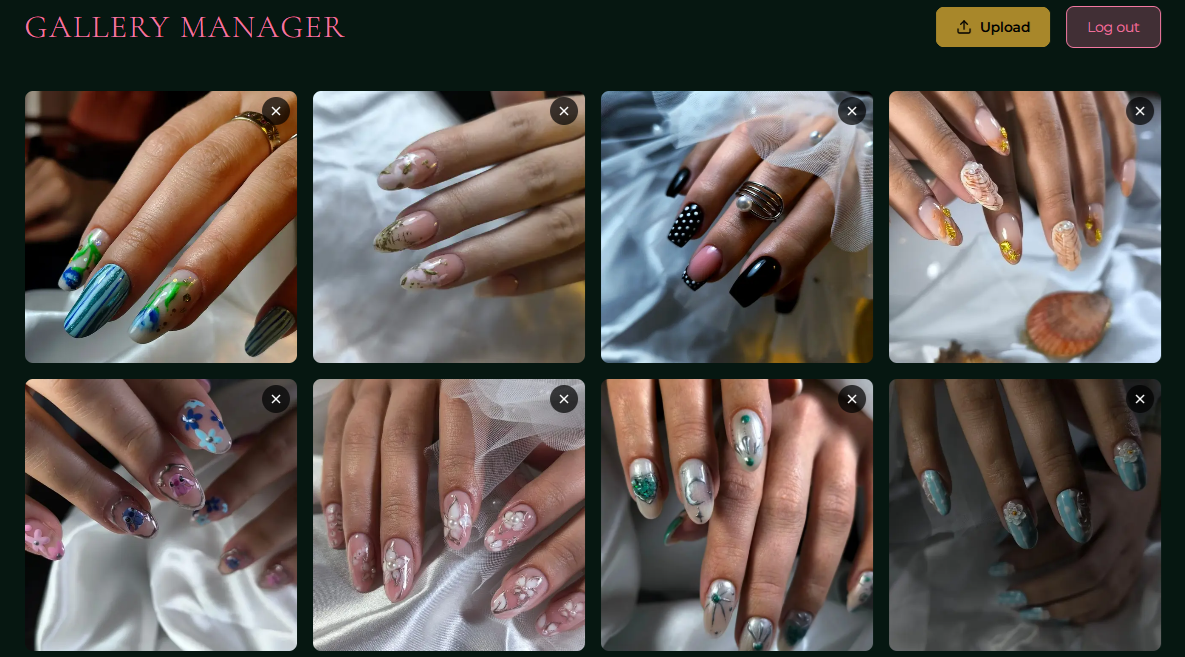
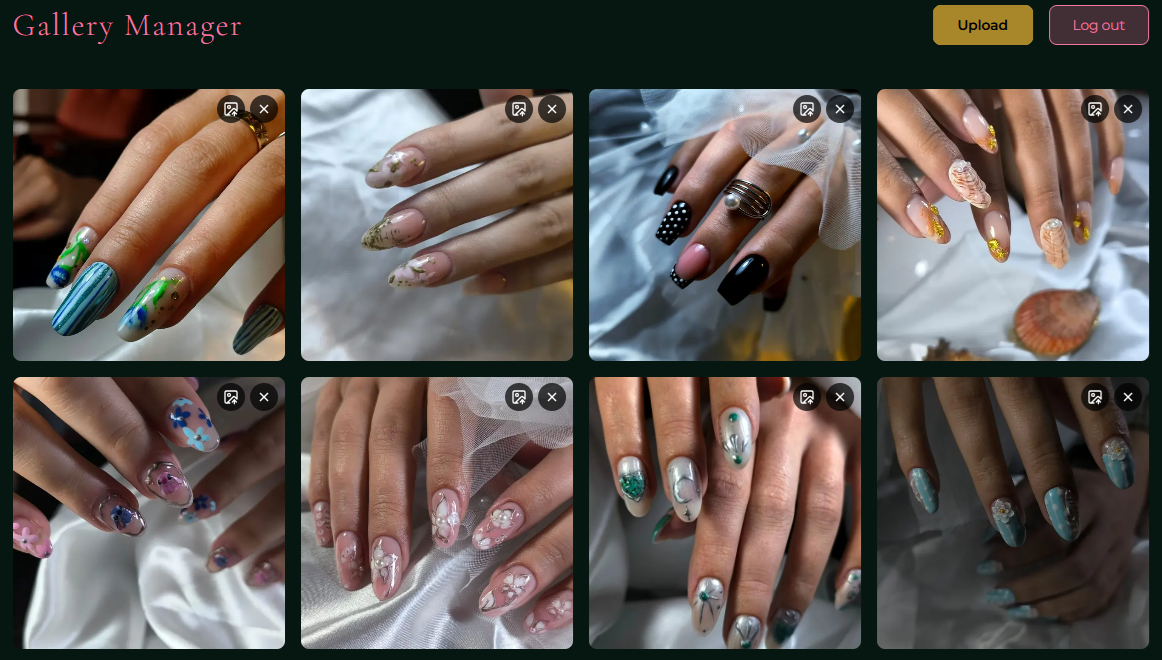
Update README and add replace photo feature

diff --git a/README.md b/README.md
@@ -128,14 +128,16 @@ A scroll-to-top button appears once the user scrolls past the hero section, allo
 
 #### Admin panel
 
-A password-protected admin panel at `/admin` allows the salon owner to manage the gallery without touching code. Photos can be uploaded or deleted, with confirmation dialogs and clear status messages for success and error states. Duplicate file name detection prevents accidental overwrites.
+A password-protected admin panel at `/admin` allows the salon owner to manage the gallery without touching code. Photos can be uploaded, replaced, or deleted, with confirmation dialogs and clear status messages for success and error states. Duplicate file name detection prevents accidental overwrites.
 
 ![Admin login](documentation/admin.png)
 ![Admin panel](documentation/adminpanel.png)
-![Delete confirmation](documentation/deleteconfirmation.png)
+![Delete confirmation modal](documentation/deleteconfirmation.png)
 ![Upload message](documentation/uploadmessage.png)
+![Replace message](documentation/replacemessage.png)
 ![Delete message](documentation/deletemessage.png)
-![Error message](documentation/errormessage.png)
+![Error message for duplicates](documentation/duplicateerror.png)
+![Error message for wrong file type](documentation/wrongfiletype.png)
 
 ### Future features
 
@@ -159,7 +161,6 @@ A password-protected admin panel at `/admin` allows the salon owner to manage th
 - [Cloudinary](https://cloudinary.com/) used to host and serve gallery videos.
 - [Vercel](https://vercel.com/) used to deploy the website and host gallery images via Vercel Blob storage.
 - [Vercel Blob](https://vercel.com/docs/storage/vercel-blob) used to store and serve gallery photos.
-- [Neon](https://neon.tech/) used to host gallery images.
 - [Axios](https://axios-http.com/) used for HTTP requests to the photos API.
 - [Lucide React](https://lucide.dev/) used for icons.
 - [React Icons](https://react-icons.github.io/react-icons/) used for icons.
@@ -236,8 +237,8 @@ As a user, I want the site to load quickly even with many photos so I am not wai
 
 **Admin**
 
-As the salon owner, I want to upload and delete gallery photos through a protected admin panel so I can keep the portfolio up to date without touching code.
-→ A password-protected admin panel at `/admin` allows the salon owner to upload and delete photos directly, with confirmation dialogs, duplicate detection, and clear status feedback for every action.
+As the salon owner, I want to upload, replace, and delete gallery photos through a protected admin panel so I can keep the portfolio up to date without touching code.
+→ A password-protected admin panel at `/admin` allows the salon owner to upload, replace, and delete photos directly, with confirmation dialogs, duplicate detection, and clear status feedback for every action.
 
 ### Lighthouse testing
 
@@ -263,7 +264,7 @@ Lighthouse was a helpful tool for checking where where the website was experienc
 
 ### Automated testing
 
-Automated tests were implemented across all 23 test files covering every component, page, API route, hook, and utility — 158 tests in total, using Vitest and React Testing Library.
+Automated tests were implemented across all 24 test files covering every component, page, API route, hook, and utility — 177 tests in total, using Vitest and React Testing Library.
 
 ![Unit tests for the application](documentation/unittests.png)
 
